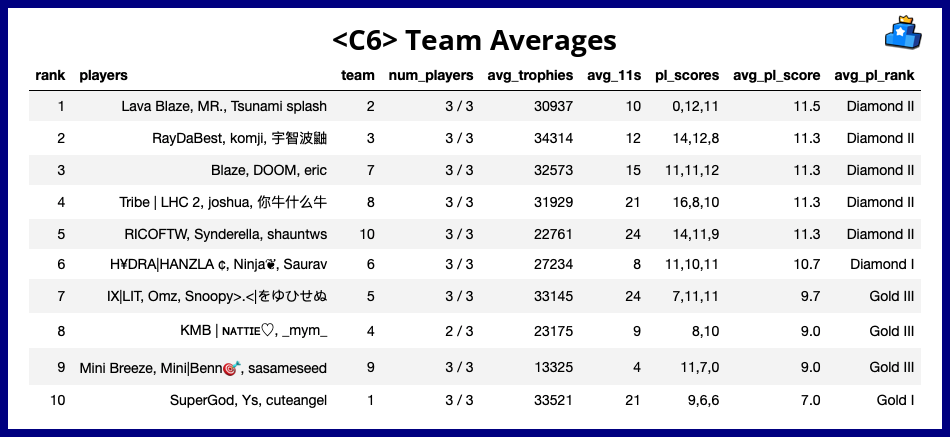
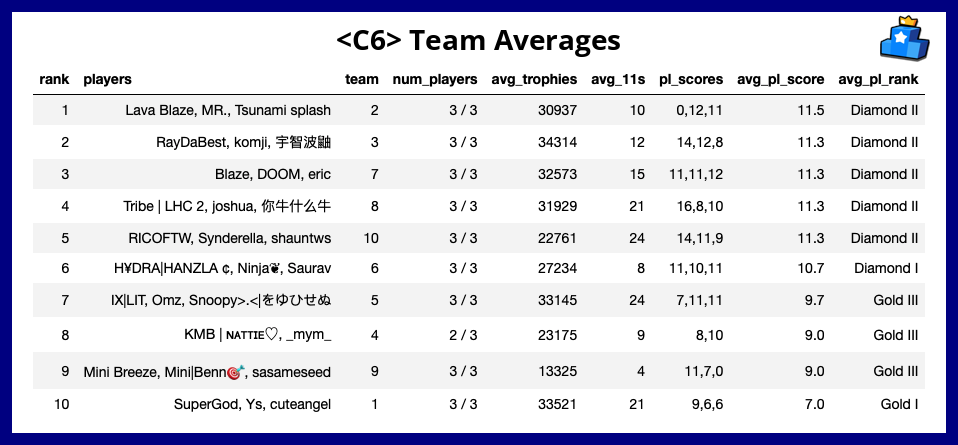
fix formatting

diff --git a/aura.py b/aura.py
@@ -283,8 +283,8 @@ add_image(c9_barchart, './misc_images/nita_brawler_levels.png', 50,1.5)
 add_image(c6_barchart, './misc_images/nita_brawler_levels.png', 50,1.5)
 
 # Team Averages
-pad_add_text(c9_team_averages_png, [60, 20, 20, 20], 28, 20, "<C9> Team Averages", c9_team_averages_png, 'maroon', 8)
-pad_add_text(c6_team_averages_png, [60, 20, 20, 20], 28, 20, "<C6> Team Averages", c6_team_averages_png, 'navy', 8)
+pad_add_text(c9_team_averages_png, [60, 20, 20, 20], 28, 20, "<C9> Team Averages", c9_team_averages_png, 'maroon', 12)
+pad_add_text(c6_team_averages_png, [60, 20, 20, 20], 28, 20, "<C6> Team Averages", c6_team_averages_png, 'navy', 12)
 
-add_image(c9_team_averages_png, './misc_images/rank.png', 15, 4)
-add_image(c6_team_averages_png, './misc_images/rank.png', 15, 4)
+add_image(c9_team_averages_png, './misc_images/rank.png', 15, 3)
+add_image(c6_team_averages_png, './misc_images/rank.png', 15, 3)
